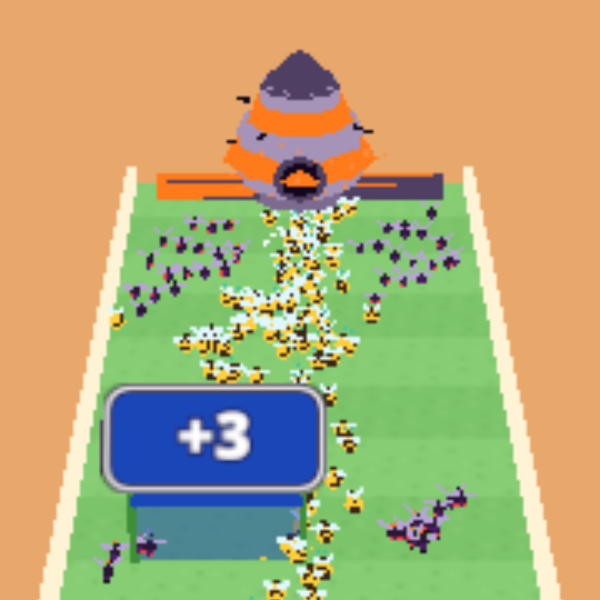
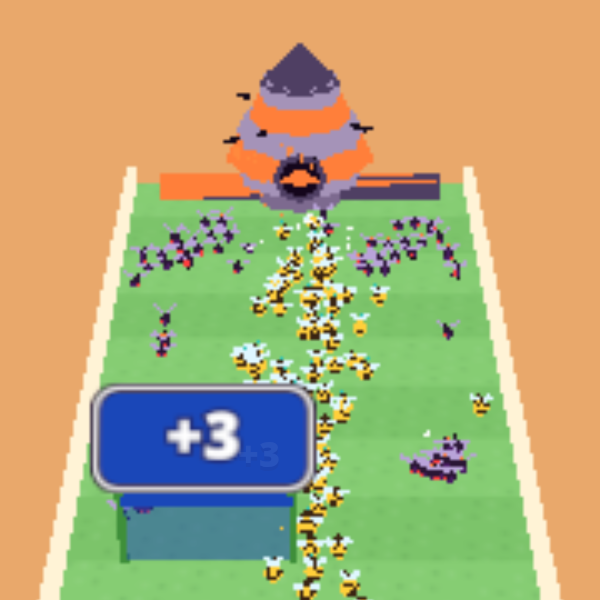
art(wasp): band survives the unlit low tier - #ff7f3a (brighter, red-orange) + 4-row abdomen with matching band period (2 real bands); hue/trap tests, GLBs + provenance, before/after low-tier crops; PERF-AUDIT + PR doc (re-committed from the working tree: 8e7608c was lost in the box rollback)

diff --git a/tests/waspBand.test.ts b/tests/waspBand.test.ts
@@ -1,0 +1,52 @@
+import { describe, expect, it } from 'vitest';
+import { ART } from '../src/art/palette';
+import { COLORS } from '../src/ui/theme';
+
+/** WCAG relative luminance / contrast (same maths as tests/gate-contrast.test.ts). */
+function luminance(hex: string): number {
+  const n = parseInt(hex.slice(1), 16);
+  const ch = [(n >> 16) & 255, (n >> 8) & 255, n & 255].map((v) => {
+    const c = v / 255;
+    return c <= 0.04045 ? c / 12.92 : ((c + 0.055) / 1.055) ** 2.4;
+  });
+  return 0.2126 * ch[0] + 0.7152 * ch[1] + 0.0722 * ch[2];
+}
+function contrast(a: string, b: string): number {
+  const [hi, lo] = [luminance(a), luminance(b)].sort((x, y) => y - x);
+  return (hi + 0.05) / (lo + 0.05);
+}
+
+/** sRGB hue in degrees. */
+function hue(hex: string): number {
+  const n = parseInt(hex.slice(1), 16);
+  const [r, g, b] = [(n >> 16) & 255, (n >> 8) & 255, n & 255].map((v) => v / 255);
+  const mx = Math.max(r, g, b);
+  const d = mx - Math.min(r, g, b);
+  if (d === 0) return 0;
+  const h = mx === r ? ((g - b) / d) % 6 : mx === g ? (b - r) / d + 2 : (r - g) / d + 4;
+  return (h * 60 + 360) % 360;
+}
+const hueGap = (a: string, b: string) => {
+  const d = Math.abs(hue(a) - hue(b));
+  return Math.min(d, 360 - d);
+};
+const TRAP = '#a10f2a';
+
+describe('wasp band (survives the unlit low tier; DES-approved)', () => {
+  it('the trap gate colour this test guards against is still #a10f2a', () => {
+    expect(COLORS.gateTrap.toLowerCase()).toBe(TRAP);
+  });
+  it('is a red-orange, clearly apart from bee yellow in hue', () => {
+    expect(hue(ART.waspBand)).toBeGreaterThanOrEqual(10);
+    expect(hue(ART.waspBand)).toBeLessThanOrEqual(25); // red-orange, never golden/friendly
+    expect(hueGap(ART.waspBand, ART.beeBody)).toBeGreaterThanOrEqual(20);
+  });
+  it('is clearly different from the trap gate crimson', () => {
+    expect(hueGap(ART.waspBand, TRAP)).toBeGreaterThanOrEqual(25);
+    expect(contrast(ART.waspBand, TRAP)).toBeGreaterThanOrEqual(3);
+  });
+  it('is brighter than before (#ff7a1a) and pops on the dark wasp body', () => {
+    expect(luminance(ART.waspBand)).toBeGreaterThan(luminance('#ff7a1a'));
+    expect(contrast(ART.waspBand, ART.waspBody)).toBeGreaterThanOrEqual(5);
+  });
+});

diff --git a/art/tools/wasp-band-sheet.html b/art/tools/wasp-band-sheet.html
@@ -1,0 +1,34 @@
+<!doctype html>
+<html>
+  <body style="margin: 0; background: #fff1dc">
+    <canvas id="c" width="500" height="250"></canvas>
+    <script type="module">
+      // Wasp band check: battle-camera angle (from above, facing the player), lit | unlit (low tier).
+      import * as THREE from 'three';
+      import { waspGeometry } from '/src/art/models.ts';
+      const r = new THREE.WebGLRenderer({ canvas: document.getElementById('c'), antialias: true });
+      r.outputColorSpace = THREE.SRGBColorSpace;
+      r.setScissorTest(true);
+      const mats = [
+        new THREE.MeshLambertMaterial({ vertexColors: true, flatShading: true }),
+        new THREE.MeshBasicMaterial({ vertexColors: true }),
+      ];
+      mats.forEach((mat, i) => {
+        const s = new THREE.Scene();
+        s.background = new THREE.Color('#7cc46a');
+        s.add(new THREE.HemisphereLight('#fff6e0', '#6b8f4e', 1.6));
+        const d = new THREE.DirectionalLight('#fff', 1.6);
+        d.position.set(-6, 14, 6);
+        s.add(d);
+        s.add(new THREE.Mesh(waspGeometry(1), mat));
+        const c = new THREE.PerspectiveCamera(30, 1, 0.1, 50);
+        c.position.set(0, 4.2, -0.6);
+        c.lookAt(0, 0, -0.1);
+        r.setViewport(i * 250, 0, 240, 240);
+        r.setScissor(i * 250, 0, 240, 240);
+        r.render(s, c);
+      });
+      document.title = 'ready';
+    </script>
+  </body>
+</html>

diff --git a/src/art/models.ts b/src/art/models.ts
@@ -216,7 +216,8 @@ export function waspGeometry(
   head: string = ART.waspHead,
   horns = false,
 ): THREE.BufferGeometry {
-  const abdomen = new THREE.ConeGeometry(0.3, 0.85, 6, 2);
+  // 4 height segments (was 2): the bands are per-face colours, so 2 rows aliased them away.
+  const abdomen = new THREE.ConeGeometry(0.3, 0.85, 6, 4);
   abdomen.rotateX(-Math.PI / 2); // tip points backwards (-Z)
   at(abdomen, 0, 0, -0.42);
   const thorax = new THREE.OctahedronGeometry(0.24);
@@ -233,7 +234,10 @@ export function waspGeometry(
   at(headG, 0, 0.06, 0.45);
   const sting = at(new THREE.ConeGeometry(0.05, 0.22, 3).rotateX(-Math.PI / 2), 0, 0, -0.95);
   const parts: Part[] = [
-    { geo: abdomen, color: stripes(body, band, 0.2, 0.0, -0.8, -0.15) },
+    // Colours are per face, so the band period must match the cone rows: 4 rows of 0.2125,
+    // period 0.425 with half dark = rows 1 and 3 (tail tip + mid band) in the band colour. The old
+    // 0.2 period aliased against 0.2125-high rows, which left almost no band on screen.
+    { geo: abdomen, color: stripes(body, band, 0.425, 0.845, -0.86, -0.15, 0.5) },
     { geo: thorax, color: body },
     { geo: waist, color: body },
     { geo: headG, color: head },

diff --git a/src/art/palette.ts b/src/art/palette.ts
@@ -18,7 +18,7 @@ export const ART = {
   crownGem: '#2ec4b6',
   // Wasp team (rival)
   waspBody: '#2b1636',
-  waspBand: '#ff7a1a',
+  waspBand: '#ff7f3a',
   waspHead: '#4a1d63',
   waspWing: '#b9a3d9',
   waspEye: '#ff3d3d',

diff --git a/art/PERF-AUDIT.md b/art/PERF-AUDIT.md
@@ -47,14 +47,14 @@ measurable and halving the pixel ratio saves ≤15%. That makes this vertex-boun
 
 ## Ranked fixes
 
-| #   | fix                                                                                                                                                                                                                                                                                                                                                             | owner                      | status                                                                                         | expected / measured                                                     |
-| --- | --------------------------------------------------------------------------------------------------------------------------------------------------------------------------------------------------------------------------------------------------------------------------------------------------------------------------------------------------------------- | -------------------------- | ---------------------------------------------------------------------------------------------- | ----------------------------------------------------------------------- |
-| 1   | **Index the faceted models and drop the normal attribute** (`gpuCompact` in `src/art/models.ts`, used by `bake()` and the GLB loader). All materials are `flatShading: true`, which derives face normals in the fragment shader, so the image is unchanged. Bee 660→**167** verts, queen 810→210, wasp 390→93, hornet 426→103 (~4× fewer). Triangles unchanged. | art                        | **done (this PR)**                                                                             | render time −28% overall, units' share −29% (median of the means below) |
-| 2   | **Particles: draw only live particles.** Keep a live high-water mark and set `mesh.count`, or compact the live ones to the front. Skip `update()` when none are alive, since it currently writes 800 matrices every frame even when idle. Removes up to 16k transparent tris and 800 matrix writes per frame.                                                   | eng                        | **done by eng in PR 068** (live-only particles, per-tier cap)                                  | 5–15% render plus CPU per frame                                         |
-| 3   | **MSAA + DPR on low-end:** `antialias: true` with DPR up to 2. Make AA/DPR adaptive (drop to DPR 1 without AA when the median fps < 50). `fix/perf-lowend` may already cover this, so reconcile with it.                                                                                                                                                        | eng                        | **done by eng in PR 068** (MSAA only on high tier, adaptive pixel ratio, unlit low tier)       | large on fill-bound phones, small here (vertex-bound)                   |
-| 4   | **Cheaper unit LOD for crowds:** when > 300 units are alive, swap workers to a ~100-tri LOD, such as the same silhouette without the antennae/cheek dabs. Needs a DES look sign-off, because it is a visual change.                                                                                                                                             | art model + **eng** switch | model **proposed** on this branch (148 tris, needs DES sign-off); switch: **eng is taking it** | ~−50% unit vertices again                                               |
-| 5   | Wasp/bee tri trim (bee 220 → ~160 via a 7×5 abdomen). Visual change, so it needs DES.                                                                                                                                                                                                                                                                           | art                        | proposed, not done                                                                             | ~−25% bee tris                                                          |
-| 6   | Props / biomes / transparency / shadows                                                                                                                                                                                                                                                                                                                         | —                          | **no action**: within budget, measured as negligible                                           | —                                                                       |
+| #   | fix                                                                                                                                                                                                                                                                                                                                                             | owner                      | status                                                                                   | expected / measured                                                     |
+| --- | --------------------------------------------------------------------------------------------------------------------------------------------------------------------------------------------------------------------------------------------------------------------------------------------------------------------------------------------------------------- | -------------------------- | ---------------------------------------------------------------------------------------- | ----------------------------------------------------------------------- |
+| 1   | **Index the faceted models and drop the normal attribute** (`gpuCompact` in `src/art/models.ts`, used by `bake()` and the GLB loader). All materials are `flatShading: true`, which derives face normals in the fragment shader, so the image is unchanged. Bee 660→**167** verts, queen 810→210, wasp 390→93, hornet 426→103 (~4× fewer). Triangles unchanged. | art                        | **done (this PR)**                                                                       | render time −28% overall, units' share −29% (median of the means below) |
+| 2   | **Particles: draw only live particles.** Keep a live high-water mark and set `mesh.count`, or compact the live ones to the front. Skip `update()` when none are alive, since it currently writes 800 matrices every frame even when idle. Removes up to 16k transparent tris and 800 matrix writes per frame.                                                   | eng                        | **done by eng in PR 068** (live-only particles, per-tier cap)                            | 5–15% render plus CPU per frame                                         |
+| 3   | **MSAA + DPR on low-end:** `antialias: true` with DPR up to 2. Make AA/DPR adaptive (drop to DPR 1 without AA when the median fps < 50). `fix/perf-lowend` may already cover this, so reconcile with it.                                                                                                                                                        | eng                        | **done by eng in PR 068** (MSAA only on high tier, adaptive pixel ratio, unlit low tier) | large on fill-bound phones, small here (vertex-bound)                   |
+| 4   | **Cheaper unit LOD for crowds:** when > 300 units are alive, swap workers to a ~100-tri LOD, such as the same silhouette without the antennae/cheek dabs. Needs a DES look sign-off, because it is a visual change.                                                                                                                                             | art model + **eng** switch | model **DES-approved**, 148 tris (own PR); switch: **eng is taking it**                  | ~−50% unit vertices again                                               |
+| 5   | Wasp/bee tri trim (bee 220 → ~160 via a 7×5 abdomen). Visual change, so it needs DES.                                                                                                                                                                                                                                                                           | art                        | proposed, not done                                                                       | ~−25% bee tris                                                          |
+| 6   | Props / biomes / transparency / shadows                                                                                                                                                                                                                                                                                                                         | —                          | **no action**: within budget, measured as negligible                                     | —                                                                       |
 
 ### Before → after (#1), same session, same headless setup, `?stress=500`, ms per isolated render (lower is better)
 
@@ -101,18 +101,26 @@ consistent in 5 of 6 pairs. Vertex counts are exact and are enforced in `tests/p
 - **Readability check, `?quality=low`** (`art/tools/quality-shot.mjs`, 200-unit stress, bees launched):
   - `art/screenshots/perf/readability-low.png` + `-crop.png`: bees read clearly as bright yellow
     with dark stripes. Wasps read as dark plum silhouettes, so the two sides are easy to tell
-    apart. **One loss:** the wasps' orange bands mostly vanish unlit at this size. If DES wants
-    bands at low tier, brighten `ART.waspBand`. That is a palette tweak and is not done here.
+    apart. **One loss (fixed, DES-approved; branch `art/crowd-lod-wasp-band`):** the wasps' orange bands
+    mostly vanished unlit. Two causes: (a) colours are per face, and the 0.2 band period aliased
+    against the cone's 0.2125-high rows, so only the tail tip was banded; (b) a slightly dull band.
+    The fix gives the cone 4 rows with period 0.425, so there are two real bands (tail and mid), and a
+    brighter, slightly redder band `#ff7f3a` (was `#ff7a1a`). It is red-orange (hue 21°, ≥20° from
+    bee yellow) and clearly not the trap crimson `#a10f2a` (32° hue gap, 3.3:1). Wasp 130→154 tris,
+    hornet 142→166. The nest uses the same band colour. Before/after:
+    `art/screenshots/perf/wasp-band-sheet-before-after.png` (close-up, lit | unlit) and
+    `wasp-band-low-zoom-before-after.png` (battle crops at `?quality=low`). At full crowd scale
+    the gain is modest because wings cover the mid band from above; the close-up shows the
+    second band clearly.
   - `art/screenshots/perf/readability-high.png` + `-crop.png`: high tier for comparison.
   - `art/screenshots/perf/readability-low-lod-crop.png`: low tier with the proposed crowd LOD
     swapped in. It still reads as bees.
 
-## Proposed: worker bee crowd LOD (separate commit, needs DES sign-off)
+## Worker bee crowd LOD (DES-approved; own PR on `art/crowd-lod-wasp-band`)
 
 `beeCrowdGeometry()` in `src/art/models.ts`: **148 tris** (full worker 220). It keeps the same
 silhouette, striped abdomen, head, wings with GPU flap and team-teal antenna tips. Segments are fewer
 and the cheek dabs are gone. Each
 antenna is one stalk segment with its teal tip on the stalk end (DES/QA fix: the tips no longer float). It uses only colours from the full bee and has the
 same bounding radius (`tests/beeCrowdLod.test.ts`). Look: `art/screenshots/perf/bee-crowd-lod.png`
-(full vs LOD) and the low-tier crowd crop above. Nothing uses it until eng adds the switch and DES
-approves.
+(full vs LOD) and the low-tier crowd crop above. DES approved it; nothing uses it until eng adds the switch.

diff --git a/art/PROVENANCE.md b/art/PROVENANCE.md
@@ -51,7 +51,7 @@ Date = first commit of the file. sha256 = first 16 hex chars.
 | `art/models/biome-orchard-mushroom.glb`     | 3280  | `14605c631175de1d` | `art/tools/export-assets.ts` (via `rebuild-glbs.sh`) | 2026-10-10 |
 | `art/models/biome-orchard-pearTree.glb`     | 3332  | `51faa193ef3fe30b` | `art/tools/export-assets.ts` (via `rebuild-glbs.sh`) | 2026-10-10 |
 | `art/models/biome-orchard-pebble.glb`       | 2524  | `96311ac6d8f15625` | `art/tools/export-assets.ts` (via `rebuild-glbs.sh`) | 2026-10-10 |
-| `art/models/prop-nest.glb`                  | 6260  | `06a8c63f25b22758` | `art/tools/export-assets.ts` (via `rebuild-glbs.sh`) | 2026-10-10 |
+| `art/models/prop-nest.glb`                  | 6260  | `2966158c8fbb9454` | `art/tools/export-assets.ts` (via `rebuild-glbs.sh`) | 2026-10-10 |
 | `art/models/skin-bee-blossom.glb`           | 6816  | `2d09a051099ac421` | `art/tools/export-assets.ts` (via `rebuild-glbs.sh`) | 2026-10-10 |
 | `art/models/skin-bee-classic.glb`           | 6048  | `75ddb383481507b2` | `art/tools/export-assets.ts` (via `rebuild-glbs.sh`) | 2026-10-10 |
 | `art/models/skin-bee-frost.glb`             | 6616  | `8228196e75818103` | `art/tools/export-assets.ts` (via `rebuild-glbs.sh`) | 2026-10-10 |
@@ -117,6 +117,6 @@ Date = first commit of the file. sha256 = first 16 hex chars.
 | `public/assets/icons/wasp.svg`              | 588   | `bc71713242ab9ff2` | `art/tools/make-icons.py`                            | 2026-10-10 |
 | `public/assets/models/prop-cannon.glb`      | 5468  | `a3ce8aa54f57a2be` | `art/tools/export-assets.ts` (via `rebuild-glbs.sh`) | 2026-10-10 |
 | `public/assets/models/unit-bee.glb`         | 6048  | `75ddb383481507b2` | `art/tools/export-assets.ts` (via `rebuild-glbs.sh`) | 2026-10-10 |
-| `public/assets/models/unit-hornet.glb`      | 4436  | `9da99e0ad4e7aab0` | `art/tools/export-assets.ts` (via `rebuild-glbs.sh`) | 2026-10-10 |
+| `public/assets/models/unit-hornet.glb`      | 4780  | `dfbb5600a1d58a15` | `art/tools/export-assets.ts` (via `rebuild-glbs.sh`) | 2026-10-10 |
 | `public/assets/models/unit-queen.glb`       | 6776  | `e6e84a6198429876` | `art/tools/export-assets.ts` (via `rebuild-glbs.sh`) | 2026-10-10 |
-| `public/assets/models/unit-wasp.glb`        | 4240  | `ff97f7d2f41bff9a` | `art/tools/export-assets.ts` (via `rebuild-glbs.sh`) | 2026-10-10 |
+| `public/assets/models/unit-wasp.glb`        | 4600  | `9cf861ea6e1a3840` | `art/tools/export-assets.ts` (via `rebuild-glbs.sh`) | 2026-10-10 |

diff --git a/prs/pending-art-crowd-lod-wasp-band.md b/prs/pending-art-crowd-lod-wasp-band.md
@@ -1,0 +1,20 @@
+# PR (number pending; ask review for 071) — art/crowd-lod-wasp-band (base: art/perf-audit @ 4eff666)
+
+Base note: branched from `art/perf-audit` at `4eff666`, which is what review merges for PR 070. Rebase onto
+main once 070 is merged. Both items are DES-approved. No INDEX claim made from this branch.
+
+1. **Worker bee crowd LOD:** `beeCrowdGeometry()` (cherry-picked from 7521cc0) plus a fix. Each antenna
+   is now one stalk segment with the teal tip placed on the stalk end. Before, the stalks were dropped
+   and the tips floated. 148 tris (≤150). Tests: budget, wings, palette, size, tips sit on the stalks.
+   Shots: `art/screenshots/perf/bee-crowd-lod.png` (full | LOD) and
+   `readability-low-lod-crop.png` (low-tier crowd). Eng owns the switch.
+2. **Wasp band survives the unlit low tier:** band `#ff7f3a` (was `#ff7a1a`; brighter and slightly
+   redder). The wasp abdomen goes to 4 rows with a matching band period, so there are 2 real bands
+   instead of an aliased tail tip. Wasp 154 tris, hornet 166. `tests/waspBand.test.ts`: hue 10–25°
+   (red-orange), ≥20° from bee yellow, ≥25° hue gap and ≥3:1 vs trap `#a10f2a`, brighter than before,
+   ≥5:1 on the wasp body. `tests/art.test.ts` (bee vs wasp value contrast) and `tests/gate-contrast.test.ts`
+   pass. GLBs re-exported (unit-wasp, unit-hornet, prop-nest, which shares the band colour); all 33
+   rebuild byte-identical; provenance regenerated.
+   - Before/after: `art/screenshots/perf/wasp-band-sheet-before-after.png` (close-up, lit | unlit),
+     `wasp-band-low-zoom-before-after.png`, and `wasp-band-{before,after}-low{,-crop}.png`. Tool:
+     `art/tools/wasp-band-sheet.html`.
